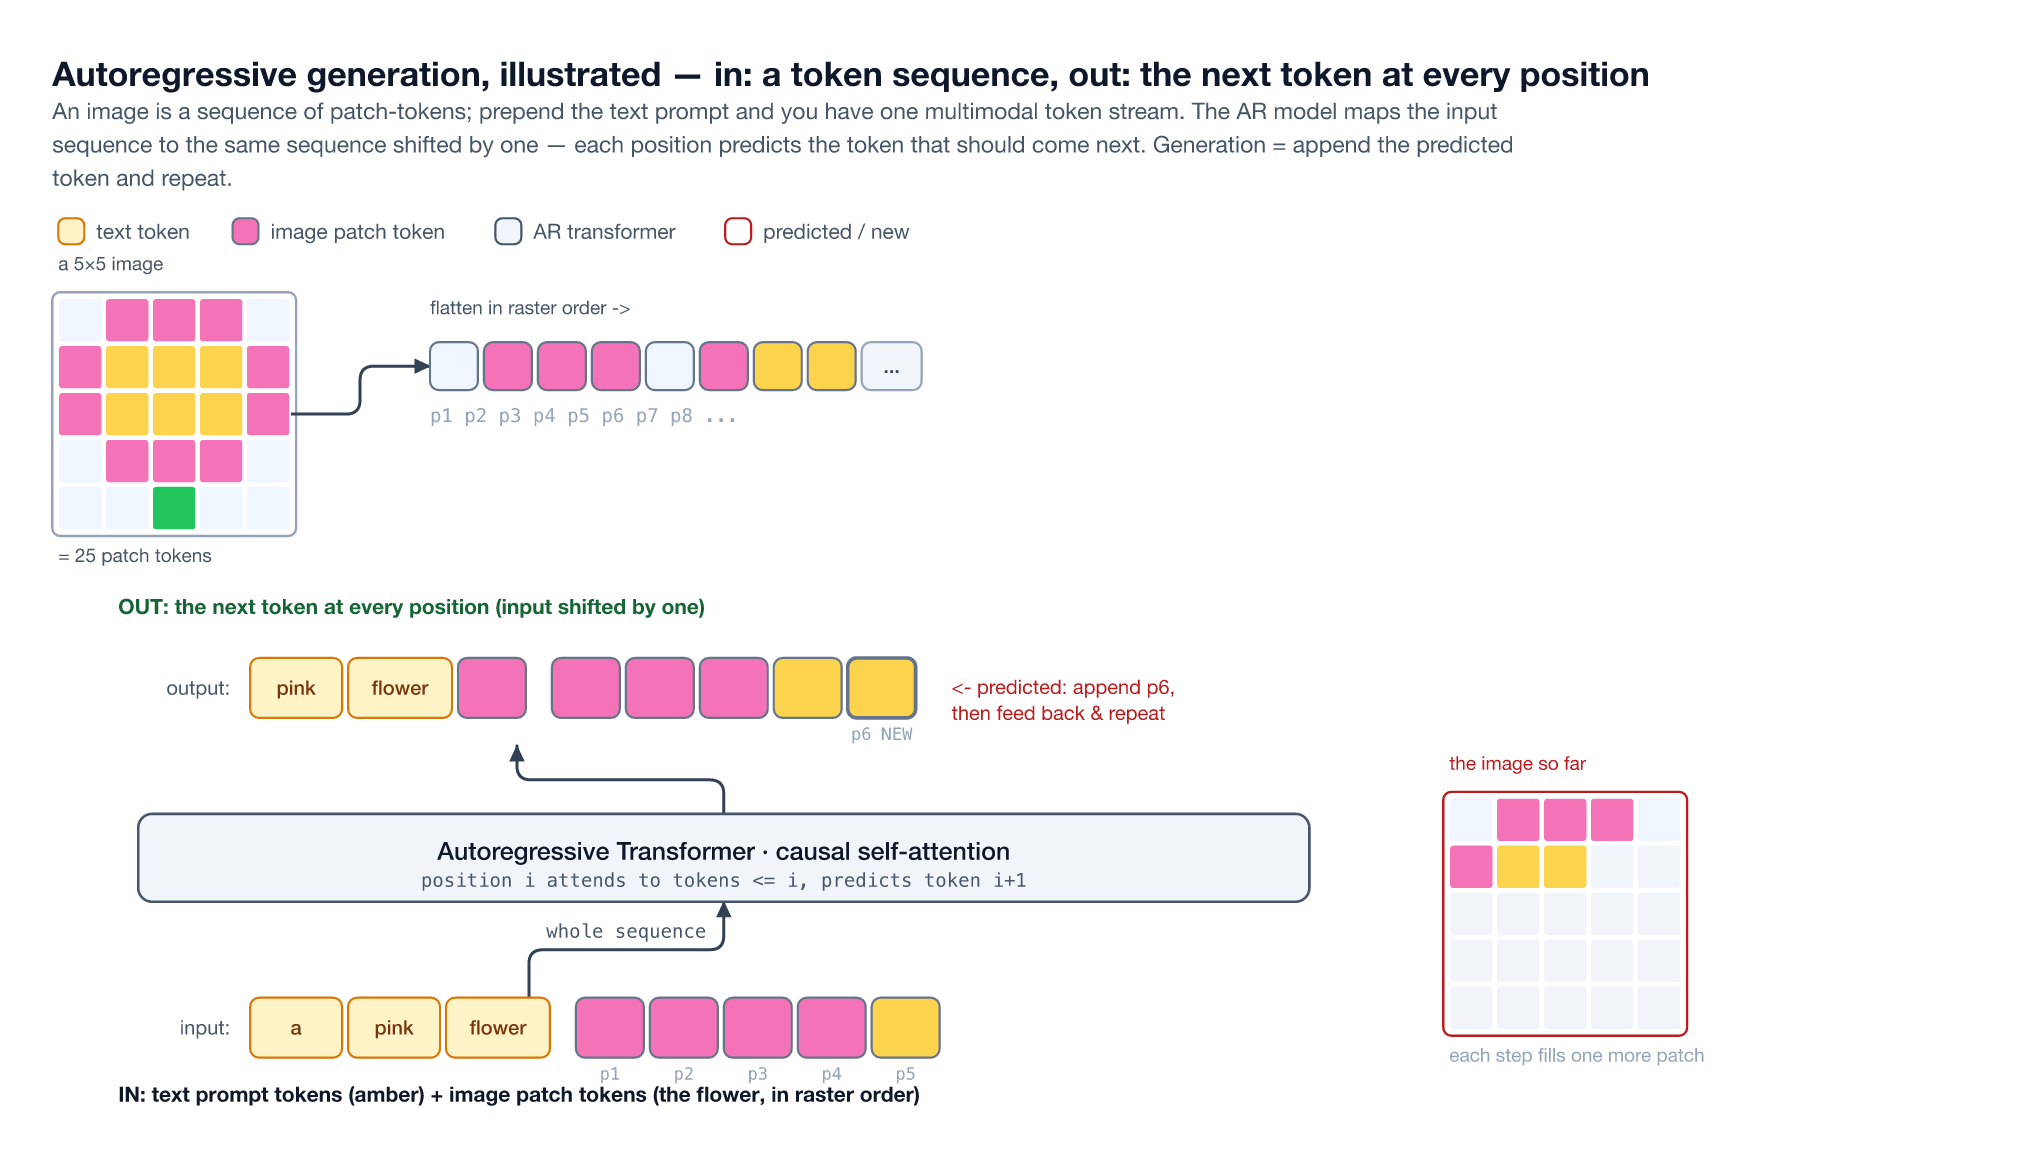
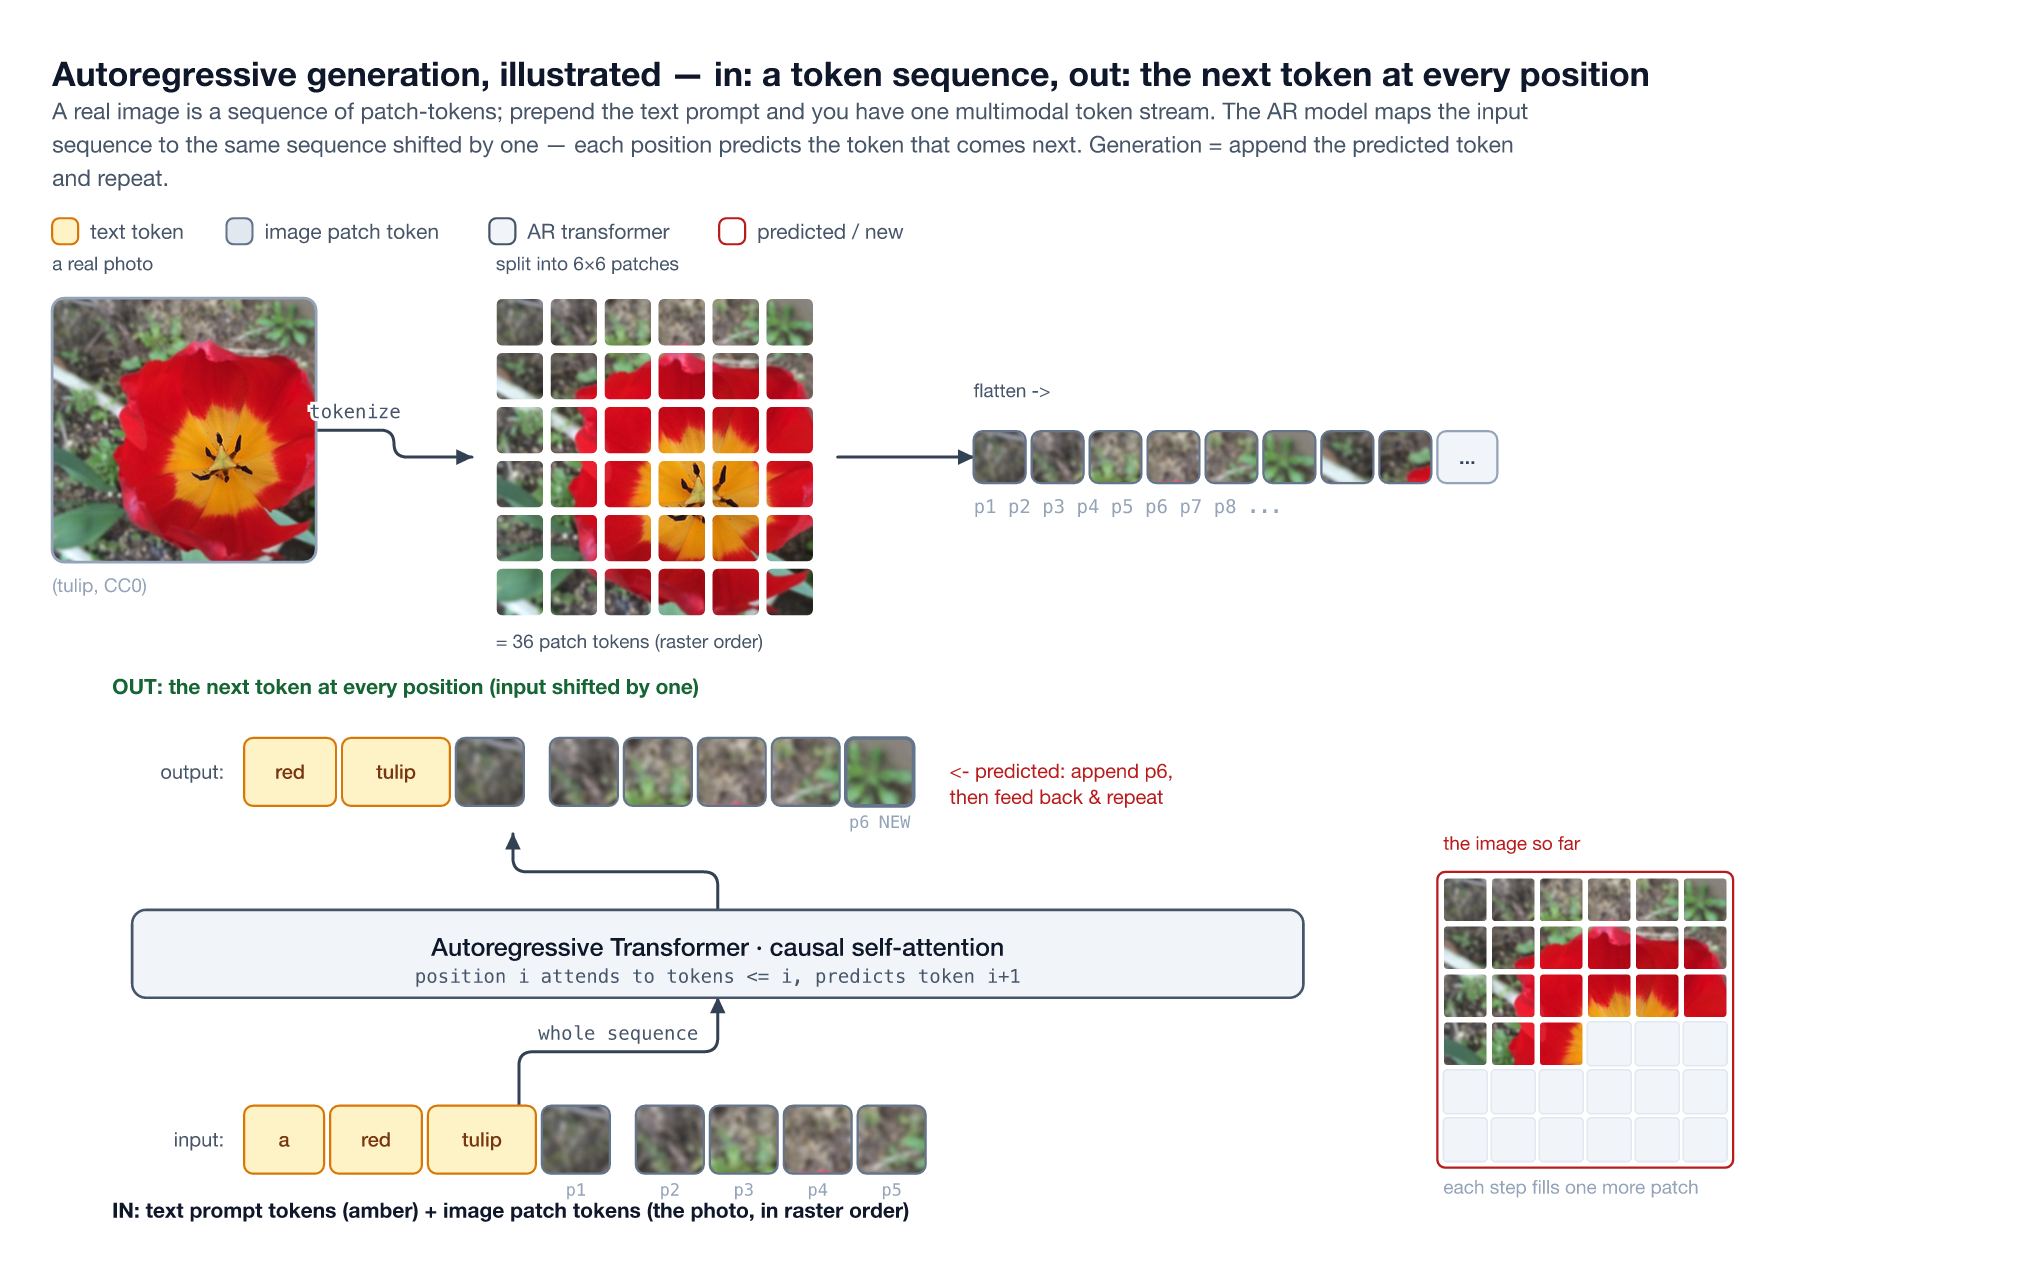
example: autoregressive_flower now uses a real photo (CC0 tulip)
Tokenizes a real CC0 tulip photo into a 6x6 patch grid -> a multimodal token
sequence (text prompt + image patches), then shows the AR next-token shift and the
image growing patch by patch. Image is CC0 1.0 (public domain), credited in
assets/flower/NOTICE.md.

diff --git a/examples/autoregressive_flower.py b/examples/autoregressive_flower.py
@@ -1,83 +1,86 @@
-"""Autoregressive generation, illustrated with a concrete example (a flower).
+"""Autoregressive generation, illustrated with a REAL image (a tulip photo, CC0).
 
 The point: an autoregressive model is fed a SEQUENCE of tokens and outputs a
-SEQUENCE of tokens — the same sequence shifted by one, i.e. at every position it
-predicts the NEXT token. To make it concrete we tokenize a little flower image
-into patch-tokens and interleave them with the text prompt (a multimodal token
-stream, in the spirit of Mixture-of-Transformers), then show the next-token shift.
+SEQUENCE of tokens — the input shifted by one, i.e. at every position it predicts
+the NEXT token. We tokenize a real photo into patch-tokens and interleave them
+with the text prompt (one multimodal stream, in the spirit of Mixture-of-
+Transformers), then show the next-token shift and the image growing patch by patch.
 
-Drawing approach borrowed from multimodal-AR papers (tokens as colored chips, the
-shifted input/output rows); the content and style here are our own.
+Image: CC0 1.0 (public domain) "flower" by imuzio — see assets/flower/NOTICE.md.
+Drawing approach borrowed from multimodal-AR papers; content and style are our own.
 """
 from pathlib import Path
 
-from archscope import (Block, Diagram, IOLabel, PatchGrid, Swatches, TextLabel,
-                       TokenRow, VStack, style)
+from archscope import (Block, Diagram, RasterImage, Swatches, TextLabel,
+                       TokenRow, style)
 
 OUT = Path(__file__).resolve().parents[1] / "out" / "examples"
+ASSETS = Path(__file__).resolve().parent / "assets" / "flower"
+def P(r, c):
+    return str(ASSETS / f"p_{r}_{c}.png")
 
-# ---- a tiny flower, as a 5x5 grid of patch colors (raster order = token order) ----
-P, Y, G, B = "#F472B6", "#FCD34D", "#22C55E", "#EFF6FF"   # petal, center, stem, bg
-FLOWER = [
-    [B, P, P, P, B],
-    [P, Y, Y, Y, P],
-    [P, Y, Y, Y, P],
-    [B, P, P, P, B],
-    [B, B, G, B, B],
-]
-patches = [c for row in FLOWER for c in row]   # 25 patch tokens, raster order
+N = 6
+raster = [(r, c) for r in range(N) for c in range(N)]   # patch token order
 
 d = Diagram(
     title="Autoregressive generation, illustrated — in: a token sequence, out: the next token at every position",
-    subtitle="An image is a sequence of patch-tokens; prepend the text prompt and you have one multimodal "
+    subtitle="A real image is a sequence of patch-tokens; prepend the text prompt and you have one multimodal "
              "token stream. The AR model maps the input sequence to the same sequence shifted by one — each "
-             "position predicts the token that should come next. Generation = append the predicted token and repeat.")
+             "position predicts the token that comes next. Generation = append the predicted token and repeat.")
 
-# ============ PANEL A: an image is a sequence of patch tokens ============
-flow = PatchGrid(FLOWER, cell=22, id="flower", outline="#94A3B8")
-d.place(flow, 60, 110)
-d.note(60, 96, "a 5×5 image", size=style.T_SUB, color=style.MUTED)
-d.note(60, d.box("flower").y2 + 16, "= 25 patch tokens", size=style.T_SUB, color=style.MUTED)
+# ============ PANEL A: a real image -> patch tokens ============
+AY = 110
+img = RasterImage(str(ASSETS / "full.png"), 132, id="img", rx=6, outline="#94A3B8")
+d.place(img, 60, AY)
+d.note(60, AY - 14, "a real photo", size=style.T_SUB, color=style.MUTED)
+d.note(60, d.box("img").y2 + 15, "(tulip, CC0)", size=style.T_TINY + 1, color=style.FAINT)
 
-# the flattened patch-token strip (first 8 + ellipsis)
-strip = TokenRow(
-    [dict(fill=patches[i], stroke="#64748B", w=24) for i in range(8)] +
-    [dict(label="...", modality="none", w=30)],
-    cell_w=24, cell_h=24, gap=3, id="strip")
-d.place(strip, d.box("flower").x2 + 70, 132)
-d.note(d.box("flower").x2 + 70, 118, "flatten in raster order ->", size=style.T_SUB,
+# exploded 6x6 patch grid (gaps make the patchification visible)
+PC, PG = 24, 3
+gx, gy = d.box("img").x2 + 90, AY
+for r in range(N):
+    for c in range(N):
+        RasterImage.emit(d.doc, P(r, c), gx + c * (PC + PG), gy + r * (PC + PG),
+                         PC, PC, rx=3)
+        d.doc.rect("nodes", gx + c * (PC + PG), gy + r * (PC + PG), PC, PC,
+                   "none", "#FFFFFF", 0.8, rx=3)
+gw = N * (PC + PG) - PG
+d.note(gx, gy - 14, "split into 6×6 patches", size=style.T_SUB, color=style.MUTED)
+d.note(gx, gy + gw + 16, "= 36 patch tokens (raster order)", size=style.T_SUB,
        color=style.MUTED)
-d.edge("flower", "strip", a_side="r", b_side="l")
-d.note(d.box("strip").x, d.box("strip").y2 + 16,
-       "p1  p2  p3  p4  p5  p6  p7  p8 ...", size=style.T_TINY + 1, color=style.FAINT,
-       mono=True)
+# arrow image -> grid
+d.edge("img", (gx - 12, gy + gw / 2), a_side="r", b_side="l", label="tokenize")
+
+# flattened strip (first 8 patches + ellipsis)
+sx = gx + gw + 80
+strip = TokenRow(
+    [dict(img=P(*raster[i]), stroke="#64748B", w=26) for i in range(8)] +
+    [dict(label="...", modality="none", w=30)], cell_w=26, cell_h=26, gap=3, id="strip")
+d.place(strip, sx, AY + gw / 2 - 13)
+d.note(sx, AY + gw / 2 - 30, "flatten ->", size=style.T_SUB, color=style.MUTED)
+d.edge((gx + gw + 12, gy + gw / 2), "strip.l", b_side="l")
+d.note(sx, d.box("strip").y2 + 15, "p1  p2  p3  p4  p5  p6  p7  p8 ...",
+       size=style.T_TINY + 1, color=style.FAINT, mono=True)
 
 # ============ PANEL B: AR = predict the next token ============
-BY = 290
-# a window of the multimodal sequence: 3 text tokens then 5 image-patch tokens
-TXT = ("#FEF3C7", "#D97706", "#78350F")   # text-token color (amber)
-in_cells = [
-    dict(label="a", fill=TXT[0], stroke=TXT[1], tcolor=TXT[2], w=46),
-    dict(label="pink", fill=TXT[0], stroke=TXT[1], tcolor=TXT[2], w=46),
-    dict(label="flower", fill=TXT[0], stroke=TXT[1], tcolor=TXT[2], w=52, gap_after=10),
-    dict(fill=patches[1], stroke="#64748B", w=34, sub="p1"),
-    dict(fill=patches[2], stroke="#64748B", w=34, sub="p2"),
-    dict(fill=patches[3], stroke="#64748B", w=34, sub="p3"),
-    dict(fill=patches[5], stroke="#64748B", w=34, sub="p4"),
-    dict(fill=patches[6], stroke="#64748B", w=34, sub="p5"),
-]
-out_cells = [
-    dict(label="pink", fill=TXT[0], stroke=TXT[1], tcolor=TXT[2], w=46),
-    dict(label="flower", fill=TXT[0], stroke=TXT[1], tcolor=TXT[2], w=52),
-    dict(fill=patches[1], stroke="#64748B", w=34, gap_after=10),
-    dict(fill=patches[2], stroke="#64748B", w=34),
-    dict(fill=patches[3], stroke="#64748B", w=34),
-    dict(fill=patches[5], stroke="#64748B", w=34),
-    dict(fill=patches[6], stroke="#64748B", w=34),
-    dict(fill=patches[7], stroke="#64748B", w=34, bold_border=True, sub="p6  NEW"),
-]
+BY = 330
+TXT = ("#FEF3C7", "#D97706", "#78350F")
+def txt(w, s):
+    return dict(label=s, fill=TXT[0], stroke=TXT[1], tcolor=TXT[2], w=w)
+def pim(i, **kw):
+    return dict(img=P(*raster[i]), stroke="#64748B", w=34, **kw)
 
-out_row = TokenRow(out_cells, cell_h=30, gap=3, id="out", label="output:", label_w=66)
+in_cells = [txt(40, "a"), txt(46, "red"), txt(54, "tulip"),
+            dict(**pim(0), gap_after=10), pim(1, sub="p2"), pim(2, sub="p3"),
+            pim(3, sub="p4"), pim(4, sub="p5")]
+# wire the leading p1's sub separately (gap_after consumed the dict)
+in_cells[3]["sub"] = "p1"
+out_cells = [txt(46, "red"), txt(54, "tulip"),
+             dict(img=P(*raster[0]), stroke="#64748B", w=34, gap_after=10),
+             pim(1), pim(2), pim(3), pim(4),
+             pim(5, bold_border=True, sub="p6  NEW")]
+
+out_row = TokenRow(out_cells, cell_h=34, gap=3, id="out", label="output:", label_w=66)
 d.place(out_row, 90, BY)
 d.note(90, BY - 22, "OUT: the next token at every position  (input shifted by one)",
        size=style.T_SUB + 1, color="#166534", weight="600")
@@ -85,41 +88,41 @@ d.note(90, BY - 22, "OUT: the next token at every position  (input shifted by on
 model = Block("Autoregressive Transformer  ·  causal self-attention",
               kind="model", sub="position i attends to tokens <= i, predicts token i+1",
               id="model", min_w=560)
-d.place(model, 100, BY + 78)
+d.place(model, 100, BY + 86)
 
-in_row = TokenRow(in_cells, cell_h=30, gap=3, id="in", label="input:", label_w=66)
-d.place(in_row, 90, BY + 170)
-d.note(90, BY + 170 + 52,
-       "IN: text prompt tokens (amber) + image patch tokens (the flower, in raster order)",
+in_row = TokenRow(in_cells, cell_h=34, gap=3, id="in", label="input:", label_w=66)
+d.place(in_row, 90, BY + 184)
+d.note(90, BY + 184 + 56,
+       "IN: text prompt tokens (amber) + image patch tokens (the photo, in raster order)",
        size=style.T_SUB + 1, color=style.INK, weight="600")
 
-# arrows: input -> model -> output (the shift). Draw a few representative ones.
 ib, ob, mb = d.box("in"), d.box("out"), d.box("model")
 d.edge((ib.cx, ib.y), (mb.cx, mb.y2), a_side="t", b_side="b", label="whole sequence")
 d.edge((mb.cx, mb.y), (ob.cx, ob.y2), a_side="t", b_side="b")
-# highlight the generation step: last input position -> predicted p6
 d.note(ob.x2 + 18, ob.cy - 4, "<- predicted: append p6,", size=style.T_SUB + 0.5,
        color="#B91C1C")
 d.note(ob.x2 + 18, ob.cy + 9, "   then feed back & repeat", size=style.T_SUB + 0.5,
        color="#B91C1C")
 
-# the "image grows" callout: p6 fills the next patch of the flower
-GROW = [row[:] for row in FLOWER]
-# blank out everything after the 8th raster patch to show "so far", keep p<=8
-flat_idx = 0
-for r in range(5):
-    for c in range(5):
-        if flat_idx > 7:
-            GROW[r][c] = "#F1F5F9"
-        flat_idx += 1
-grow = PatchGrid(GROW, cell=22, id="grow", outline="#B91C1C")
-d.place(grow, mb.x2 + 70, BY + 70)
-d.note(mb.x2 + 70, BY + 56, "the image so far", size=style.T_SUB, color="#B91C1C")
-d.note(mb.x2 + 70, d.box("grow").y2 + 16, "each step fills one more patch",
-       size=style.T_SUB, color=style.FAINT, max_w=150)
+# "the image so far": reveal the first K patches, grey the rest
+K = 21
+gx2, gy2 = mb.x2 + 70, BY + 70
+SC, SGAP = 22, 2
+for idx, (r, c) in enumerate(raster):
+    px, py = gx2 + c * (SC + SGAP), gy2 + r * (SC + SGAP)
+    if idx < K:
+        RasterImage.emit(d.doc, P(r, c), px, py, SC, SC, rx=2)
+        d.doc.rect("nodes", px, py, SC, SC, "none", "#FFFFFF", 0.7, rx=2)
+    else:
+        d.doc.rect("nodes", px, py, SC, SC, "#F1F5F9", "#E2E8F0", 0.8, rx=2)
+sw = N * (SC + SGAP) - SGAP
+d.doc.rect("frames", gx2 - 3, gy2 - 3, sw + 6, sw + 6, "none", "#B91C1C", 1.2, rx=4)
+d.note(gx2, gy2 - 14, "the image so far", size=style.T_SUB, color="#B91C1C")
+d.note(gx2, gy2 + sw + 16, "each step fills one more patch", size=style.T_SUB,
+       color=style.FAINT, max_w=160)
 
 leg = Swatches([((TXT[0], TXT[1]), "text token"),
-                (("#F472B6", "#64748B"), "image patch token"),
+                (("#E2E8F0", "#64748B"), "image patch token"),
                 ("model", "AR transformer"),
                 (("#FFFFFF", "#B91C1C"), "predicted / new")], max_w=520, id="leg")
 d.place(leg, 60, 70)

diff --git a/examples/assets/flower/NOTICE.md b/examples/assets/flower/NOTICE.md
@@ -1,0 +1,9 @@
+# flower image
+
+`full.png` (and the `p_*.png` patch crops) are derived from a CC0 1.0
+(public-domain-dedication) photograph "flower" by imuzio, obtained via Openverse:
+https://api.openverse.org/v1/images/16b88d7f-4185-438f-a976-03008eddf63b
+
+CC0 1.0 imposes no conditions on use; credit is given here as a courtesy.
+The image was center-cropped to square, resized, and sliced into a 6×6 patch grid
+for the `autoregressive_flower.py` example.